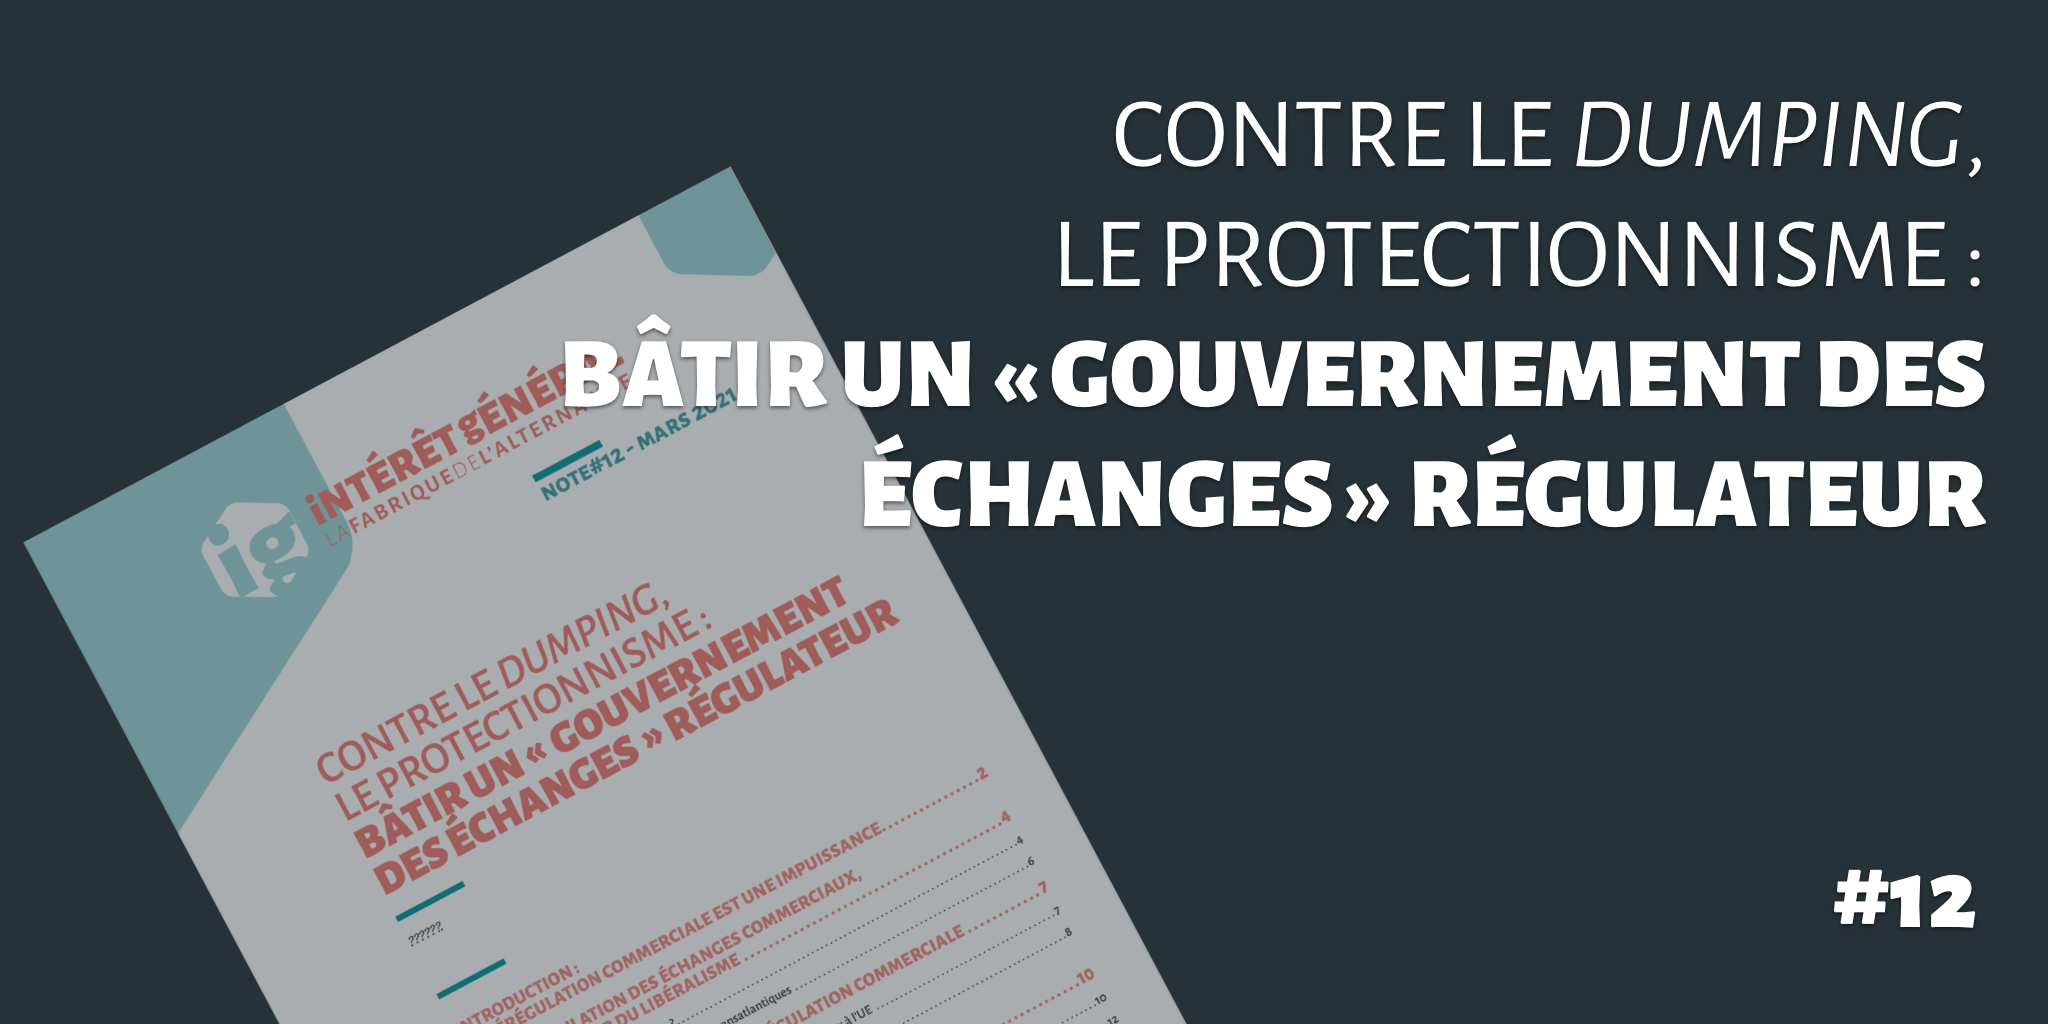
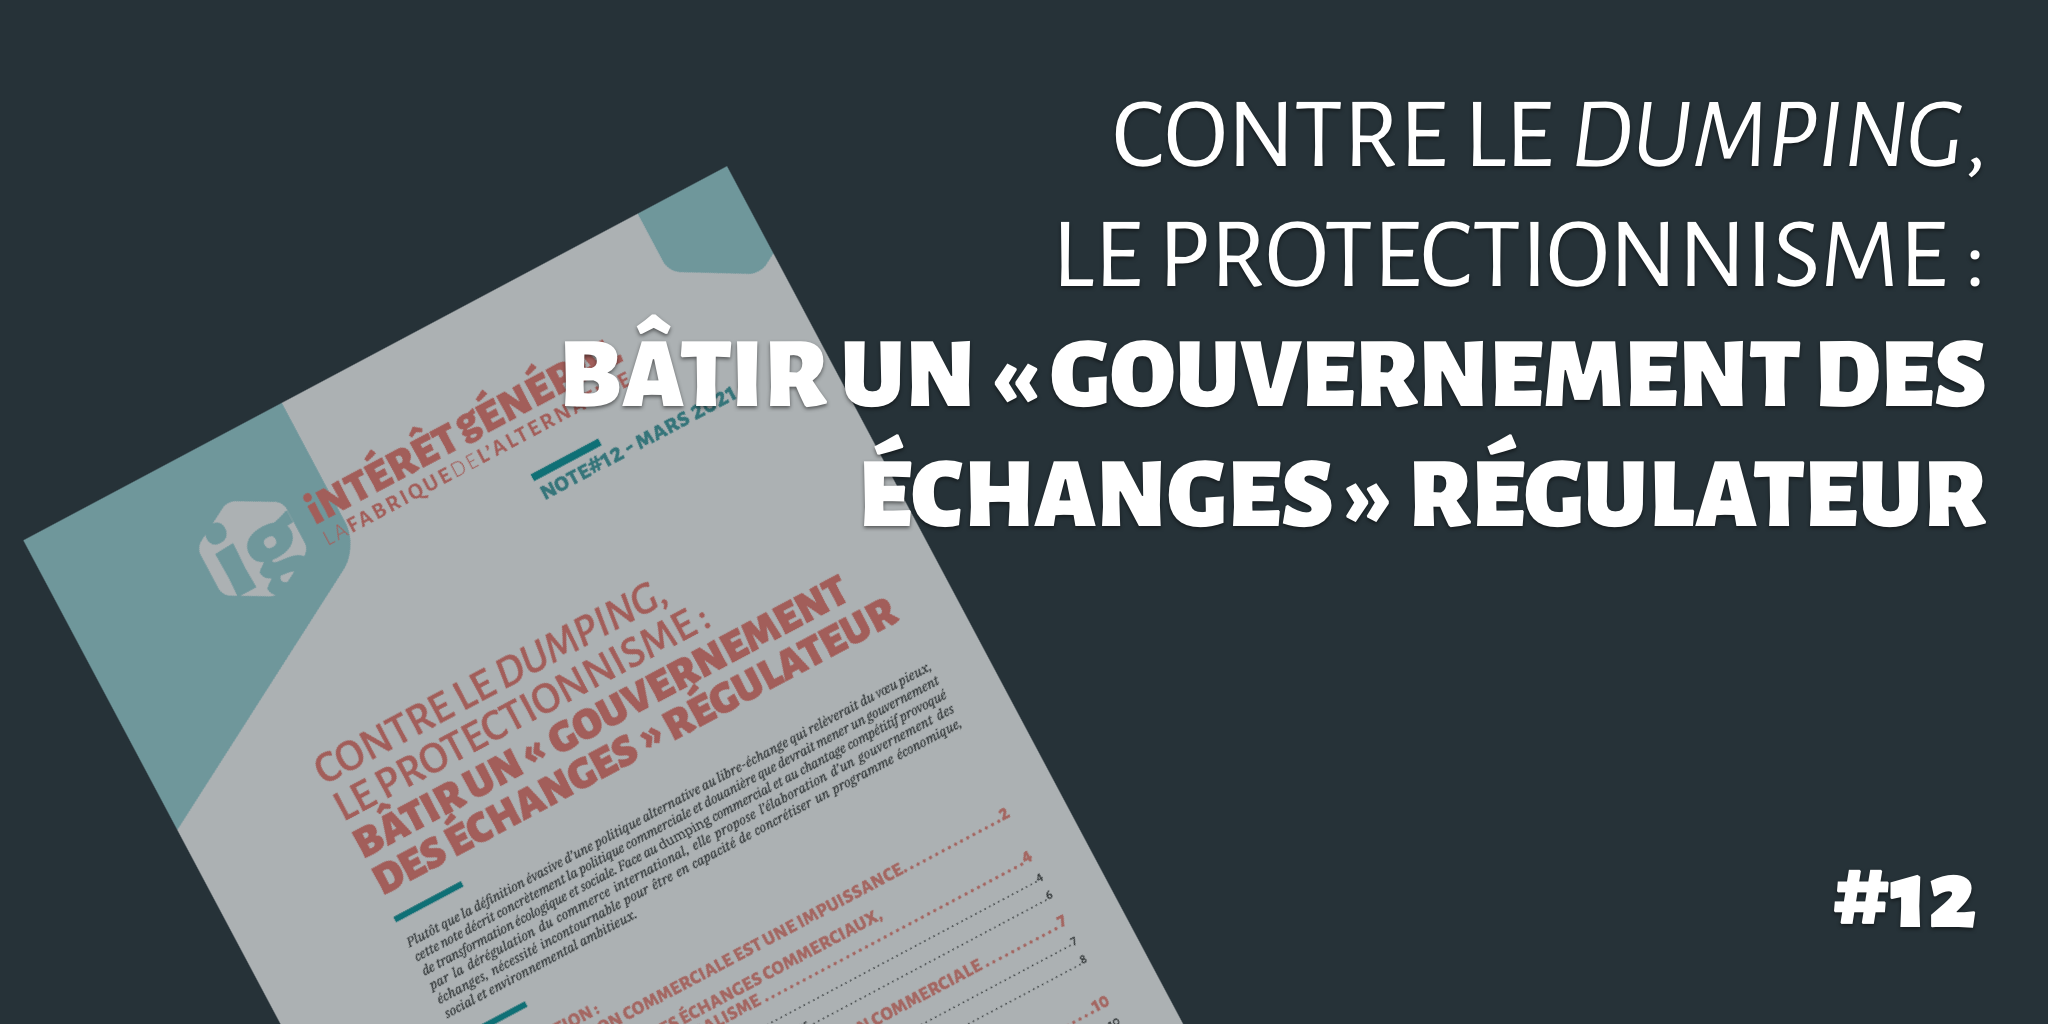
Release of Note 12

diff --git a/publications/12.html b/publications/12.html
@@ -79,11 +79,36 @@
                 href="./pdf/12.pdf">ici</a>.</i></p>
                 
         </header>
-        <h1><mark>L’héritage : un tabou français, un enjeu politique central </mark></h1>
-        <p>Lorem, ipsum dolor sit amet consectetur adipisicing elit. Sed doloribus praesentium quasi. Alias harum, facilis libero recusandae corporis eligendi quam aliquid, assumenda deserunt ratione blanditiis aspernatur nihil nemo beatae consequatur!</p>
-        <p>Lorem ipsum dolor sit amet, consectetur adipisicing elit. Deserunt nobis earum voluptate doloribus ad dolor aliquid iste delectus? Illo consectetur pariatur blanditiis eaque dolore in possimus non iure explicabo culpa!</p>
-        <p>Lorem ipsum dolor sit amet consectetur adipisicing elit. Id eaque qui sapiente excepturi nulla nobis ut, ipsam, officia, rerum ea dolorem quibusdam facere eius recusandae cupiditate voluptatem ullam distinctio odit.</p>
-        <br />
+        <p>Plutôt que la définition évasive d’une politique alternative au libre-échange qui relèverait du vœu pieux, cette note décrit concrètement la politique commerciale et douanière que devrait mener un gouvernement de transformation écologique et sociale. </p>
+        
+<p>Face au dumping commercial et au chantage compétitif provoqué par la dérégulation du commerce international, elle propose l’élaboration d’un gouvernement des échanges, nécessité incontournable pour être en capacité de concrétiser un programme économique, social et environnemental ambitieux. </p>
+
+<p>Le plan de la <a
+    href="./pdf/12.pdf">note</a> est le suivant : </p>
+
+    <p>INTRODUCTION : LA DÉRÉGULATION COMMERCIALE EST UNE IMPUISSANCE</p>
+ 
+<p>I . LA DÉRÉGULATION DES ÉCHANGES COMMERCIAUX, LEVIER MAJEUR DU LIBÉRALISME 
+    <br/>A. Comment définir le libre-échange ? 
+    <br/>B. De la dérégulation frontalière aux traités transatlantiques 
+</p>
+<p>II . L’UE, ACCÉLÉRATEUR DE LA DÉRÉGULATION COMMERCIALE <br/>
+A. L’échec de la délégation des pouvoirs douaniers et commerciaux à l’UE <br/>
+B. Le marché unique européen, un « TAFTA achevé » </p>
+
+<p>
+III . LE PROTECTIONNISME, OUTIL INDISPENSABLE DEL’ALTERNATIVEPOLITIQUEAULIBÉRALISME<br/>
+A. La mondialisation économique de plus en plus contestée<br/>
+B. Il n’y a pas de relocalisation de l’activité sans mesures protectionnistes<br/>
+C. Quel contenu à ce gouvernement des échanges ? <br/>
+- Droits de douanes et visas environnementaux  <br/>
+- Protéger des filières stratégiques et refuser l’hypocrisie importatrice  <br/>
+D. Réguler le commerce impose de résoudre des nœuds politiques <br/>
+- Quel territoire pour les instruments douaniers ? <br/>
+- Réguler et coopérer <br/>
+- Pour une politique émancipatrice de la frontière <br/>
+</p>
+
         <p class="message"><i>Téléchargez la version complète de la note au format pdf <a
                     href="./pdf/12.pdf">ici</a>.</i></p>
     </article>

diff --git a/index.html b/index.html
@@ -70,20 +70,21 @@
     <r-cell span=2+4 span-s=row>
     <article>
 
-        <h1><mark>Notre nouvelle note sur l'héritage est sortie !</mark></h1>
+        <h1><mark>Notre note sur le protectionnisme est sortie !</mark></h1>
+        <a href="./publications/12.html"><img src="cover-note-12.png"/></a>
+
+        <h1><mark>Notre dernière note sur l'héritage</mark></h1>
         <a href="./publications/11.html"><img src="cover-note-11.png"/></a>
 
-        <h1><mark>Nos derniers travaux sur l'écologie</mark></h1>
+        <h1><mark>Nos travaux sur l'écologie</mark></h1>
         <a href="./publications/10.html"><img src="cover-note-10.png"/></a>
         <a href="./publications/9.html"><img src="cover-note-9.png"/></a>
         <a href="./publications/8.html"><img src="cover-note-8.png"/></a>
-        
-        <h1><mark>Notre série sur les services publics</mark></h1>
+
+        <h1><mark>Nos précédentes notes</mark></h1>
         <a href="./publications/7.html"><img src="cover-note-7.png"/></a>
         <a href="./publications/6.html"><img src="cover-note-6.png"/></a>
         <a href="./publications/5.html"><img src="cover-note-5.png"/></a>
-
-        <h1><mark>Nos précédentes notes</mark></h1>
         <a href="./publications/4.html"><img src="cover-note-4.png"/></a>
         <a href="./publications/3.html"><img src="cover-note-3.png"/></a>
         <a href="./publications/2.html"><img src="cover-note-2.png"/></a>
